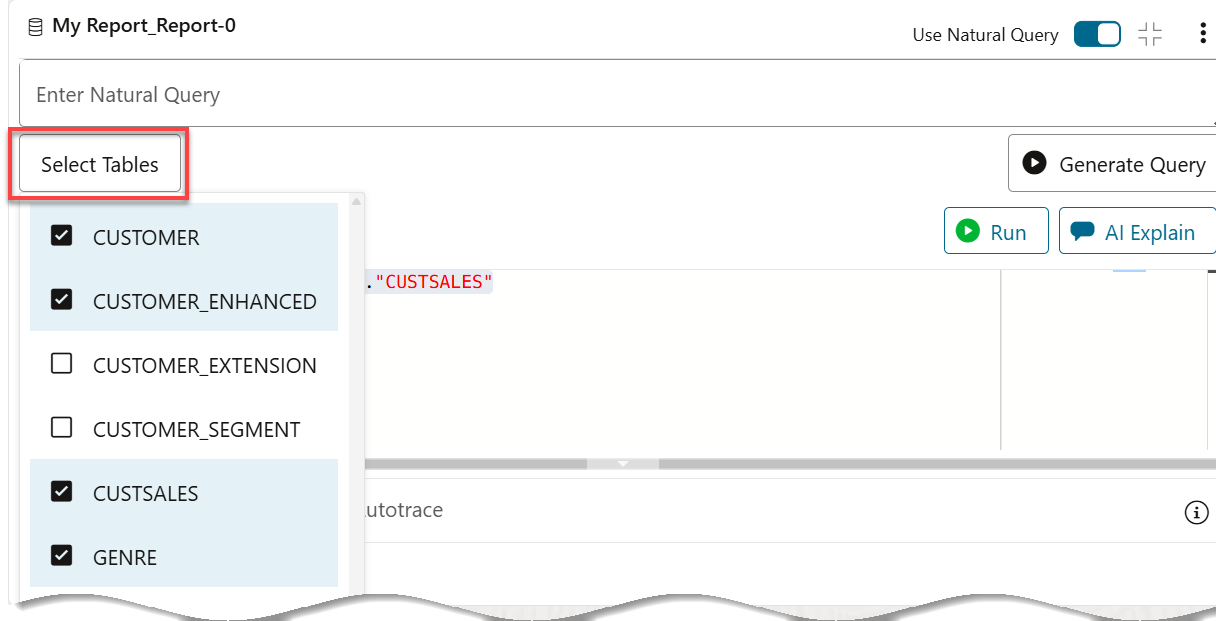
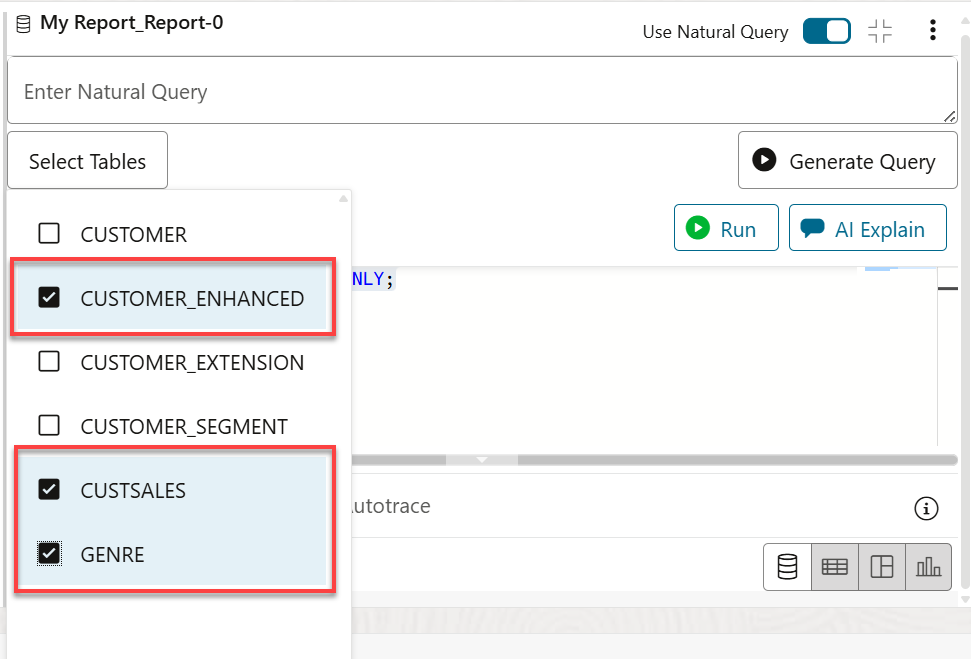
updates

diff --git a/shared/adw-data-lake/build-data-lake/table-ai-assist/table-ai-assist.md b/shared/adw-data-lake/build-data-lake/table-ai-assist/table-ai-assist.md
@@ -261,11 +261,11 @@ Once you are satisfied with a recipe you can use it to create or replace a view,
 
     ![New column created.](./images/new-column-created.png =60%x*)
 
-5. In this case, since you are masking the PII from the email column, select the **Replace Column** option, and then enter the **email** column name in the **Column Name to Replace** field.
+5. In this case, since you are masking the PII from the email column, select the **Replace Column** option, and then select the **email** column name from the **Column Name to Replace** drop-down list.
 
     ![Replace email column.](./images/replace-email-column.png =60%x*)
 
-6. Click **Add Step**. The **Edit Recipe** page is re-displayed. Scroll to the right of the table to display the newlt added masked email column.
+6. Click **Add Step**. The **Edit Recipe** page is re-displayed. Scroll to the right of the table to display the newly added masked email column.
 
     ![Click Add Step.](./images/replaced-email-column.png " ")
 
@@ -326,7 +326,7 @@ We will work with the **custsales** data. Click **View All** to display all the 
 
     ![custsales rows count.](./images/custsales-rows-count.png =65%x*)
 
-4. Add the following clause on the next line of the `SELECT` statement, and then click **Run**.
+4. Add the `Fetch` clause to the `SELECT` statement, and then click **Run**. This will only show the first 10 rows in the table.
 
     ```sql
     <copy>
@@ -340,7 +340,7 @@ We will work with the **custsales** data. Click **View All** to display all the 
 
     ![Enable natural language query.](./images/enable-natural-language.png " ")
 
-6. Click **Select Tables** and select the **customer**, **customer_enhanced**, **custsales**, and **genre** tables. Click anywhere in the SQL Editor to dismiss the list of tables.
+6. Click **Select Tables** and select the **customer_enhanced**, **custsales**, and **genre** tables. Click anywhere in the SQL Editor to dismiss the list of tables.
 
     ![Select tables.](./images/select-tables.png " ")
 
@@ -386,16 +386,20 @@ We will work with the **custsales** data. Click **View All** to display all the 
 
 ## Learn more
 
+* [Table AI Assist Tool](https://docs.oracle.com/en/database/oracle/sql-developer-web/sdwad/table-ai-assist-tool.html)
 * [Oracle Cloud Infrastructure Documentation](https://docs.cloud.oracle.com/en-us/iaas/Content/GSG/Concepts/baremetalintro.htm)
 * [Using Oracle Autonomous Database Serverless](https://docs.oracle.com/en/cloud/paas/autonomous-database/adbsa/index.html)
 * [Manage Credentials](https://docs.oracle.com/en/cloud/paas/autonomous-database/serverless/adbsb/autonomous-manage-credentials.html#GUID-863FAF80-AEDB-4128-89E7-3B93FED550ED)
 * [Manage AI Profiles](https://docs.oracle.com/en/cloud/paas/autonomous-database/serverless/adbsb/select-ai-manage-profiles.html#GUID-842C70F5-A3BE-42A1-B189-64341A9BAAED)
+* [Manage Policies](https://docs.oracle.com/en-us/iaas/language/using/policies.htm)
 
 ## Acknowledgements
 
 * **Author:** Lauran K. Serhal, Consulting User Assistance Developer
-* **Contributor:** Ekrem Soylemez, Vice President
-* **Last Updated By/Date:** Lauran K. Serhal, March 2025
+* **Contributor:**
+    * Ekrem Soylemez, Vice President
+    * A.A. Hopeman, Consulting Software Engineer
+* **Last Updated By/Date:** Lauran K. Serhal, April 2025
 
 Data about movies in this workshop were sourced from Wikipedia.
 
